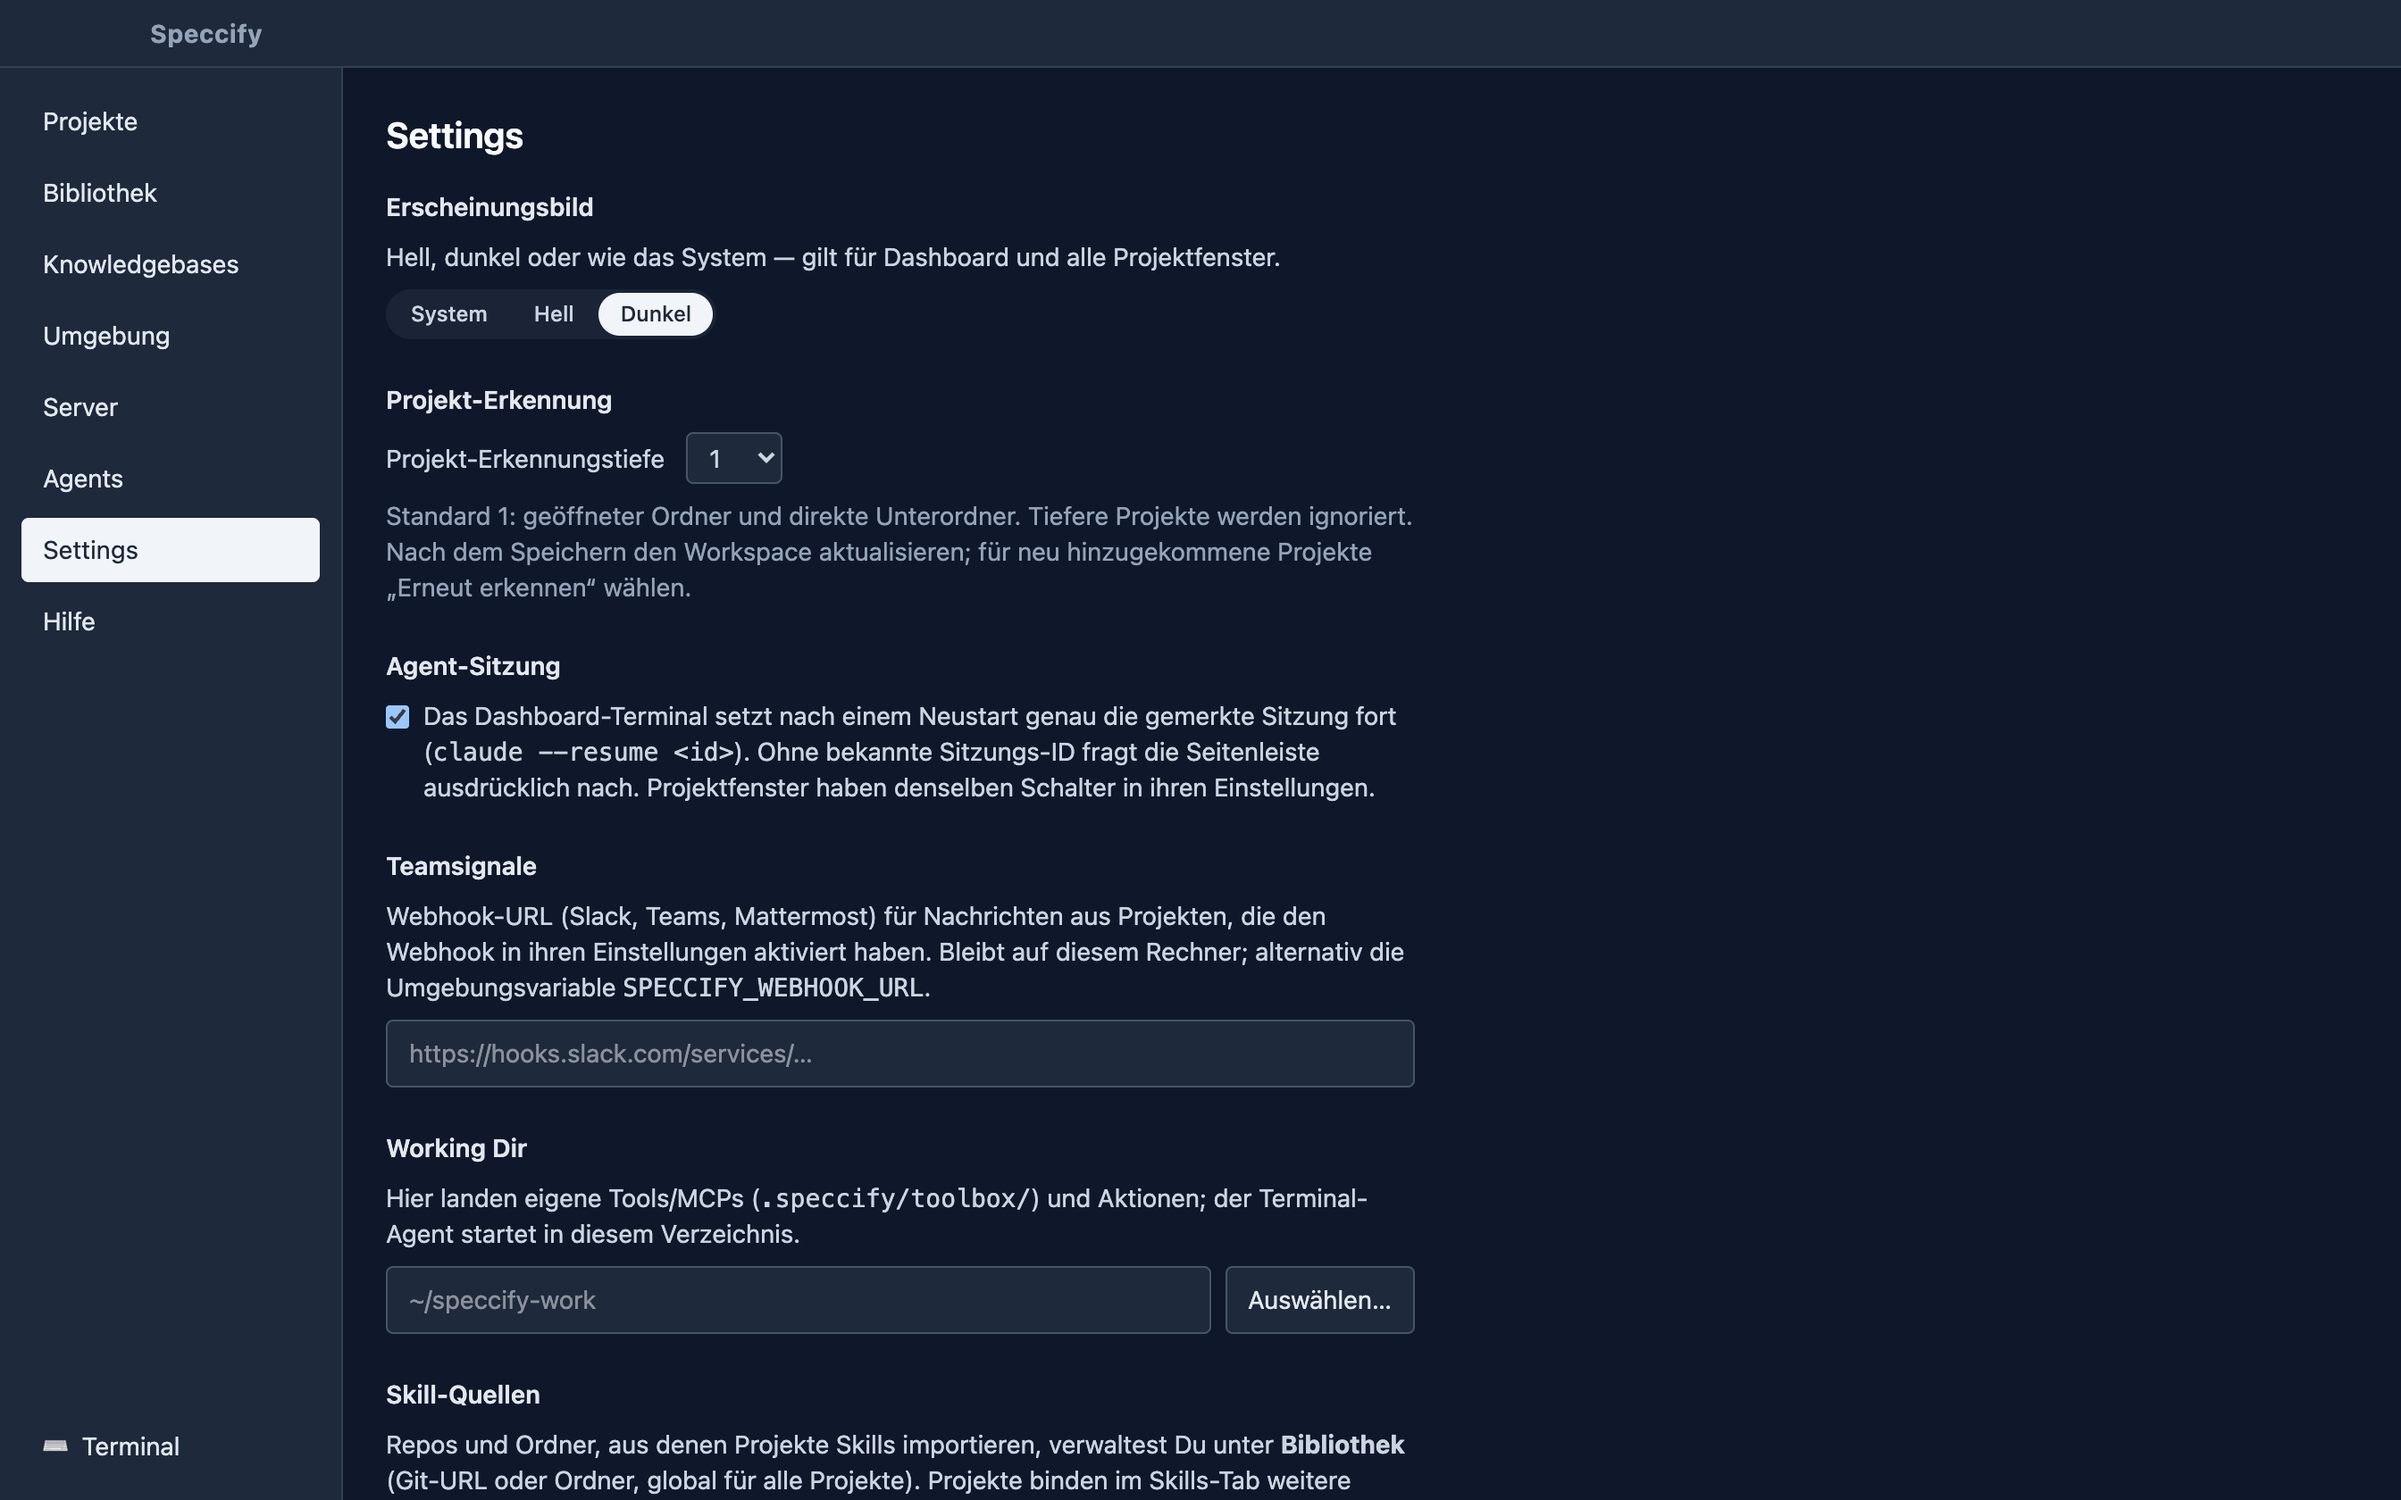
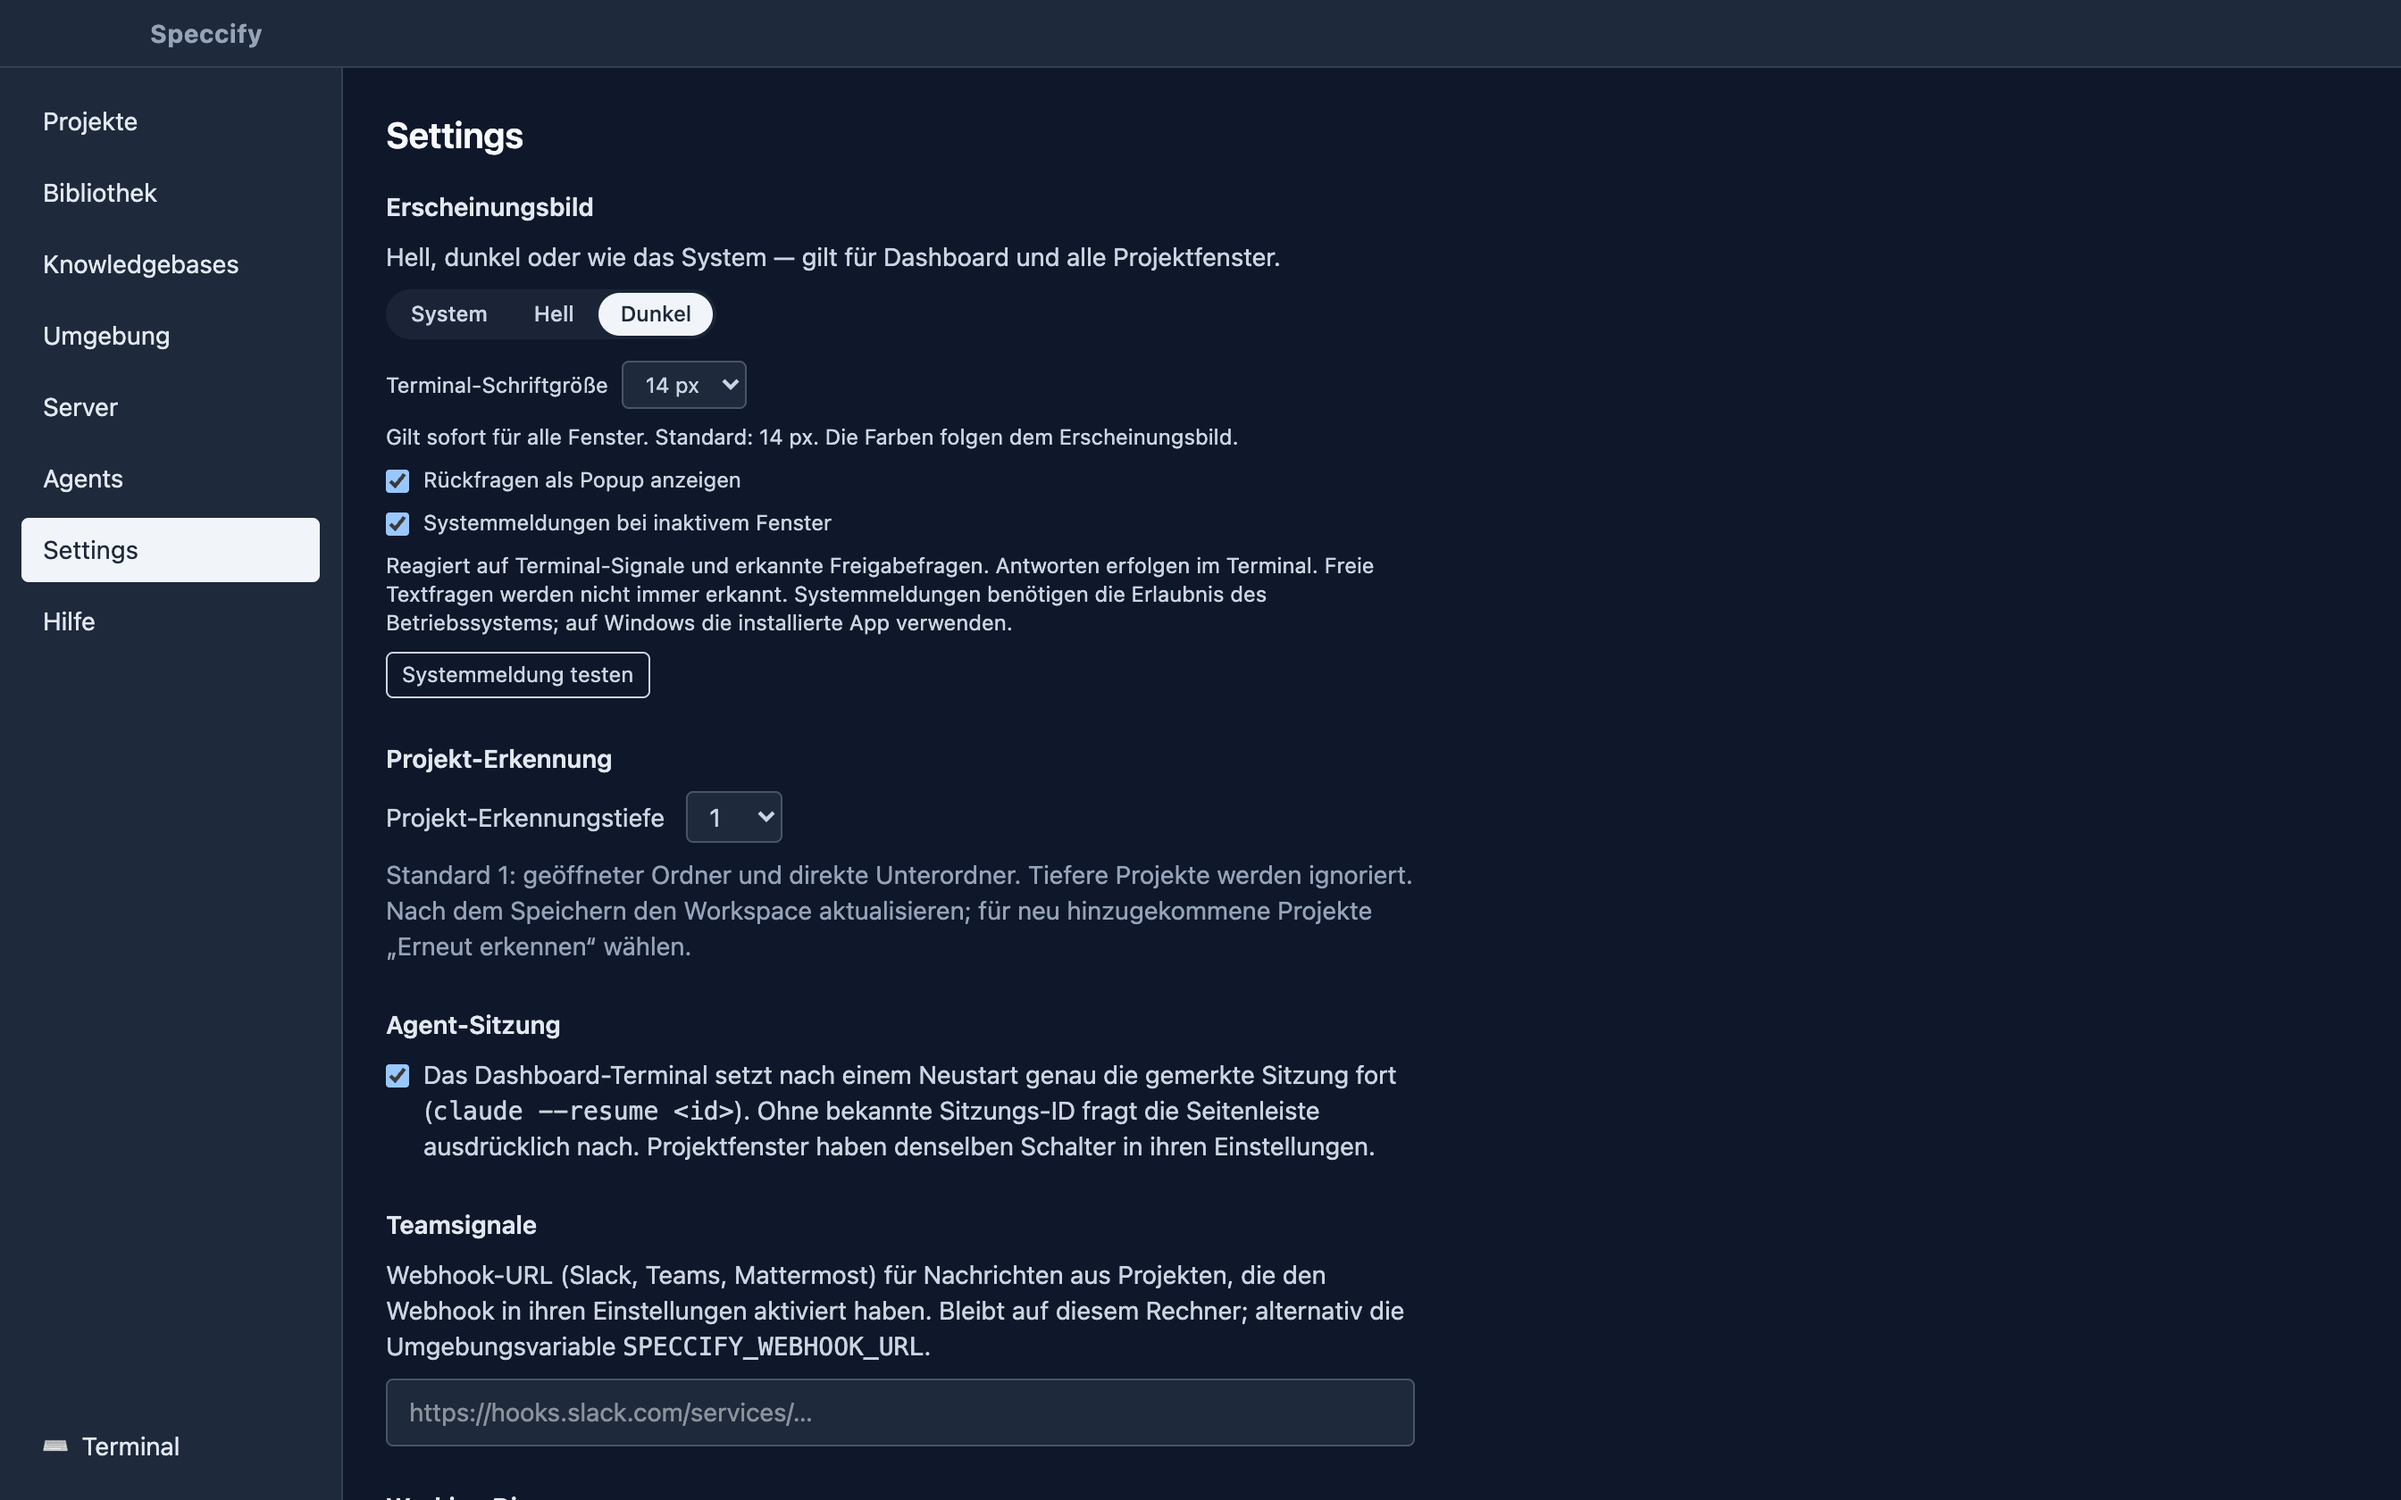
chore(release): prepare Speccify 0.8.2
Spec: 057-release-082
Branch: main

Ship terminal appearance controls, attention notices, editable host settings and Shift+Enter support. Refresh release documentation and current product screenshots.

Validation: 134 Rust tests; 287 Python tests; TypeScript, Cargo fmt and Ruff; repeated demo captures; marketing build and responsive, keyboard and no-JavaScript checks.

Changed region(s): [[0.1562, 0.2476, 0.5938, 1.0]]

diff --git a/apps/marketing/src/content/docs/releases/0-8-2.md b/apps/marketing/src/content/docs/releases/0-8-2.md
@@ -1,0 +1,65 @@
+---
+title: Speccify 0.8.2
+description: A terminal that follows your theme, visible waiting questions, editable agent settings and multiline prompts.
+---
+
+## Terminal appearance and multiline prompts
+
+The terminal now follows Light, Dark or System appearance, including its controls,
+cursor and ANSI colours. Adjust the font from **8–32 px** using **A− / A+** or
+Settings. Changes apply to running terminals and persist across windows.
+
+**Shift+Enter** inserts a new line in Codex and Claude prompts; **Enter** submits.
+Previously, both keys sent the same input. Other shells and custom host bindings
+may handle the modified key differently.
+
+## Notice waiting questions
+
+Terminal notification signals and common permission prompts can display an in-app
+notice, including when the terminal pane is hidden. Jump directly to the source
+terminal. Optional system notifications draw attention when its window is inactive;
+Settings includes a test button. Repeated redraws are deduplicated.
+
+Free-form questions are not always detectable. Operating-system permissions and
+Do Not Disturb can suppress system notifications. Notices never answer a question
+or approve a command automatically.
+
+## Editable Codex and Claude settings
+
+Open **Agents** in the dashboard or **Agent-Einstellungen** from a project or
+workspace. Settings are grouped, searchable and accompanied by help. Complex
+values have JSON editors; the full TOML/JSON source remains accessible.
+
+The **Selbstständig arbeiten** profile proposes settings that reduce approval
+interruptions. Review the draft and save explicitly. Existing unknown values and
+unrelated settings are preserved; invalid values and conflicting external edits
+are rejected. Restart the host to apply changes. Host versions, account access,
+project overrides and managed policies still determine what is available.
+
+See the [terminal and agent settings guide](/app/terminal-settings/) for details,
+including Windows sandbox setup and configuration precedence.
+
+## Update or install
+
+- **From 0.8.1:** check **Environment → Updates**, download 0.8.2, then install
+  when open editors, drafts and running processes are closed. Installation restarts
+  Speccify; downloading alone does not.
+- **From 0.8.0 or earlier:** install the new version once from the
+  [download page](/download/). These older versions lack the updater verification key.
+- **Linux deb/rpm:** update through your package manager. In-app Linux updates
+  apply to AppImage.
+
+Packages cover macOS Apple Silicon, Windows x64 and Linux x86_64/arm64.
+macOS packages are Developer ID signed and notarized. Update packages use verified
+signatures on all four targets. Windows code signing is separate; SmartScreen may
+still warn. Downloads are on the [0.8.2 release page](https://github.com/mhennemeyer/speccify/releases/tag/v0.8.2).
+
+## Verification and scope
+
+The terminal and settings checks passed the browser and native test suites,
+including Windows CI. On macOS, real Codex 0.154.0 and Claude 2.1.273 terminals
+retained two input lines without submitting them. Actual notification delivery and
+installation in the Windows VM and on Linux remain separate platform acceptance
+checks. The itsdcloud work for 0.9.0 is not part of this update.
+
+Spec-register snapshot: [`ee1317a2fa22c77a39aa4b61b436c885a28c7dc7`](https://github.com/mhennemeyer/speccify/tree/ee1317a2fa22c77a39aa4b61b436c885a28c7dc7).

diff --git a/.agent/playbooks/stand-und-ui.md b/.agent/playbooks/stand-und-ui.md
@@ -18,7 +18,7 @@ Schnelleinstieg: [Fähigkeiten](#fähigkeiten-vorhanden-geprüft-offen) ·
 [Prüfstand](#verifikation-und-verbleibende-risiken) ·
 [UI-Ausbau](#vorgeschlagener-ui-ausbau--nicht-implementiert).
 
-**0.8.x-Findings 051–055, 2026-09-16 (noch unveröffentlicht):** Terminal inklusive
+**0.8.2-Findings 051–055, 2026-09-17:** Terminal inklusive
 Bedienelementen folgt Hell/Dunkel/System; Schrift 8–32 px (Standard 14), live und
 fensterübergreifend. Rückfragen-Hinweise über OSC 9/777, Bell und bekannte
 Freigabeformulierungen; Popup außerhalb verborgener Terminalflächen, Sprung zur
@@ -34,9 +34,10 @@ native Wegwerfprojekt-Prüfung grün; Windows-/Linux-OS-Zustellung offen.
 Enter getrennt von Paste mit echtem zsh-PTY nachgewiesen; bestehende Übergaben
 senden weiterhin kein Enter. [Research](../../docs/terminal-enter-research.md),
 [Bedienhilfe](../../apps/marketing/src/content/docs/app/terminal-settings.md).
-Öffentlich bleibt 0.8.1; nächster Release nur auf Zuruf. 0.9.0/itsdcloud ist geparkt.
+Veröffentlichung als 0.8.2 ist am 2026-09-17 ausdrücklich freigegeben;
+Build-/Publikationsnachweis in Spec 057. 0.9.0/itsdcloud ist geparkt.
 
-**Shift+Enter 056, 2026-09-16 (unveröffentlicht):** Terminal überträgt die
+**Shift+Enter 056, Teil von 0.8.2:** Terminal überträgt die
 Kombination als CSI-u statt wie bisher als normales Enter. Im lokalen signierten
 Build mit Codex 0.154.0 und Claude 2.1.273 geprüft: zwei getrennte Eingabezeilen,
 kein Absenden, beide Zeilen gemeinsam mit Ctrl-C verworfen. Browser-Regression

diff --git a/.agent/playbooks/website.md b/.agent/playbooks/website.md
@@ -4,8 +4,16 @@ description: Website positioning, feature order and repeatable product screensho
 # Website: show what makes Speccify different
 
 Living playbook for `apps/marketing/`. Product direction: [Weiterentwicklung](weiterentwicklung.md).
-Current release work: [Spec 041](../specs/041-release-070-website/SPEC.md).
+Current release work: [Spec 057](../specs/057-release-082/SPEC.md).
 Initial visual direction: [Spec 023](../specs/023-landingpage-app-screenshots/SPEC.md).
+
+0.8.2 refresh (2026-09-17): release notes and terminal/settings guide describe
+the shipped controls, attention notices, configuration editor and Shift+Enter.
+Landing release link updated. All ten public demo images recaptured and inspected;
+board, actions, playbooks, workspace and discovery settings replace stale views.
+Playbook capture now allows the visible Active status between title and description.
+Repeated captures confirm stable changed images; transient Files raster variation
+returned to the original hash. No personal projects or configuration are pictured.
 
 ## Editorial decision · 2026-09-11
 

diff --git a/.agent/playbooks/weiterentwicklung.md b/.agent/playbooks/weiterentwicklung.md
@@ -15,6 +15,7 @@ Speichern ändern, andere Schlüssel und neuere externe Änderungen erhalten.
 Sandbox, Approval-Policy, automatische Prüfung und Windows-Ersteinrichtung
 getrennt erklären; möglichst wenige Rückfragen sind keine Zusage unbegrenzter
 Berechtigungen. Implementiert und lokal geprüft, noch kein neuer Release.
+BO-Freigabe am 2026-09-17: als 0.8.2 veröffentlichen, Durchführung in Spec 057.
 Native Windows-/Linux-Meldungsabnahme bleibt offen. Enter ist als separate
 PTY-Eingabe im Wegwerfprojekt belegt; ein neuer „Einfügen und senden“-Knopf
 bleibt Folgeentscheidung gemäß [Research](../../docs/terminal-enter-research.md).

diff --git a/apps/marketing/src/content/docs/app/terminal-settings.md b/apps/marketing/src/content/docs/app/terminal-settings.md
@@ -5,8 +5,8 @@ sidebar:
   order: 7
 ---
 
-**Preview for the next 0.8.x update. These controls are not included in the
-published 0.8.1 installer yet.**
+**Available in Speccify 0.8.2.** See the [release notes](/releases/0-8-2/)
+for installation and update instructions.
 
 ## Appearance
 
